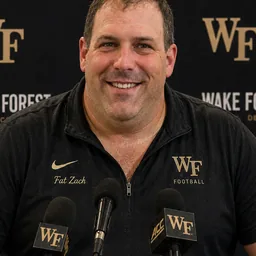
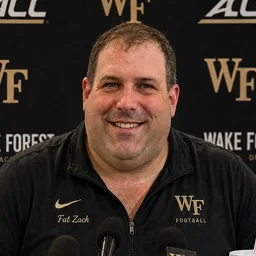
feat(art): fatter Fat Zach with podium snacks for CEC
Zach's CEC portrait is replaced with a heavier render of the same Wake
Forest press conference, snacks on the podium. All six derivatives are
rebuilt from the one promoted source: portrait, face crop, both avatars,
the profile hero and its torn edge, plus the heroes.json manifest.

The source was NOT regenerated from scratch. make_fatcoach.py only knew
how to BUILD a sideline scene from a real photo, and running that would
have thrown away the presser, the podium nameplate and the shirt script
that make the picture his. So it gains --keep-scene: an edit mode that
swaps SCENE for a pin -- backdrop, podium, mics, garment and every
existing letter frozen -- and moves only the build. Same inverted lock
the file already documents, one degree tighter than recolor_personas.py,
which freezes the body and changes the garment.

Three prompt failures closed on the way, each one the model taking
"heavier" as licence to change something else:

  - snack packaging came back with garbled invented branding, so
    --props forbids printing of any kind rather than policing spelling
  - "strains at the zip" was read as a shirt riding up over a bare
    midriff, and a heavier man came back older and bearded in 2/4
    renders; both are now denied in the build clause itself
  - the nameplate kept being eaten, because "on the podium" and "do not
    cover the nameplate" are the same depth. Stating the depth --
    nameplate in front, snacks behind and croppable -- makes both
    satisfiable
[…]

diff --git a/scripts/make_fatcoach.py b/scripts/make_fatcoach.py
@@ -75,8 +75,9 @@ IDENTITY_LOCK = (
     "hair, same skin tone, same complexion, same age. He must be instantly "
     "recognizable to anyone who knows him. DO NOT swap his face, DO NOT "
     "morph him toward any real coach or celebrity, DO NOT make him "
-    "generically handsome, DO NOT change his beard, DO NOT give him hair he "
-    "does not have."
+    "generically handsome, DO NOT change his beard, DO NOT add facial hair "
+    "he does not have, DO NOT grow stubble into a full beard, DO NOT grey his "
+    "hair or beard, DO NOT give him hair he does not have."
 )
 
 BUILD_CHANGE = (
@@ -86,7 +87,12 @@ BUILD_CHANGE = (
     "jowls, with the coaching shirt pulled tight over the stomach. Make the "
     "body substantially heavier than the source photograph. Keep the face "
     "recognizably his, but let the neck and jaw carry the weight the rest of "
-    "him does, so the head belongs to the body and does not look pasted on."
+    "him does, so the head belongs to the body and does not look pasted on. "
+    "The shirt stays fully on and fully covering him: it never rides up or "
+    "comes untucked, and NO bare skin of his stomach, midriff, chest or back "
+    "is visible anywhere. Making him heavier is the ONLY change -- do not age "
+    "him, do not grey him, and do not add, lengthen or thicken his facial "
+    "hair, which stays exactly as it is in the reference image."
 )
 
 NO_FURNITURE = (
@@ -123,7 +129,81 @@ EXCLUSION = (
 )
 
 
-def build_prompt(color_word, hexc, patch, exclude=None, team_marks=False):
+# --- scene-preserving edit mode (--keep-scene) --------------------------------
+# The generation path above BUILDS a sideline scene from a real photo. Once a
+# manager's portrait is approved and published, the scene is the asset: CEC's
+# zach is a Wake Forest presser, not a sideline, and regenerating it from
+# SCENE would throw away the backdrop, the podium nameplate and the shirt
+# script that make it his. So --keep-scene swaps SCENE for a pin -- everything
+# in the reference frame is frozen and only the build moves. Same inverted
+# lock, one degree tighter: recolor_personas.py freezes the body and changes
+# the garment, this freezes the garment AND the room and changes the body.
+SCENE_KEEP = (
+    "This is a TARGETED EDIT of the photograph provided, not a new picture. "
+    "Return the same photograph with one thing changed. ABSOLUTELY UNCHANGED: "
+    "the setting and the room, the backdrop and every logo, wordmark and "
+    "graphic printed on it, the podium and its nameplate, the microphones, "
+    "the camera angle, the crop and framing, the lighting direction and mood, "
+    "his garment and its exact color, and EVERY piece of text and lettering "
+    "already in the frame -- reproduce all existing words exactly as they "
+    "appear, same wording, same spelling, same fonts, same positions. It stays "
+    "a photorealistic press photograph with real skin and fabric texture. "
+    "DO NOT restyle or redraw the picture, DO NOT change the background, "
+    "DO NOT re-letter or reword the nameplate, DO NOT add or remove signage."
+)
+
+# Distinct from BUILD_CHANGE because the input is different. BUILD_CHANGE
+# reads a real photo of a normal-sized man; this reads a portrait that is
+# ALREADY the heavy-set treatment, so "make him heavy-set" is a no-op the
+# model happily satisfies by returning the source. The comparative -- heavier
+# THAN HE ALREADY IS IN THIS IMAGE -- is what actually moves it.
+BUILD_HEAVIER = (
+    " DELIBERATELY CHANGED, and this is the only reason for the edit: his "
+    "BODY. Make him CLEARLY AND SUBSTANTIALLY HEAVIER THAN HE ALREADY IS IN "
+    "THIS PHOTOGRAPH -- considerably more weight in the belly, chest, "
+    "shoulders, neck and jowls, a fuller double chin, rounder and heavier "
+    "cheeks, thicker arms and forearms, and a wider overall frame that fills "
+    "more of the podium than it does now. The coaching shirt is pulled "
+    "visibly tighter across the stomach and strains at the zip. Keep the face "
+    "recognizably his and let the neck and jaw carry the weight the rest of "
+    "him does, so the head belongs to the body and does not look pasted on."
+)
+
+# Props on the podium. Unbranded is not fussiness: every garbled render in the
+# hauck batch failed on LETTERING, and snack packaging is nothing but
+# lettering. Denying it the surface is cheaper than policing the spelling.
+PODIUM_PROPS = (
+    " ADD to the flat top of the podium, spread along its front edge to the "
+    "LEFT and RIGHT of the nameplate and BELOW the microphones: {props}. They "
+    "rest on the podium surface as real objects, shot in the same light and "
+    "the same photographic style as the rest of the frame, slightly "
+    "overlapping each other. They are props at the edges of the frame, not "
+    "the subject of it. EVERY microphone already in the picture stays exactly "
+    "where it is and stays fully visible, and the podium nameplate stays "
+    "COMPLETELY unobstructed and fully readable end to end, both of its "
+    "lines of text -- nothing may overlap, cover or crop a single letter of "
+    "it. The snacks sit on the podium's flat top surface BEHIND the "
+    "nameplate, so the nameplate stands in front of them and may itself hide "
+    "the lower part of any of them; that is correct and expected. It is "
+    "always the nameplate in front and the snacks behind, never the reverse. "
+    "Nothing may cover his "
+    "face, his chest or his hands. Every wrapper, bag, cup, box and napkin is "
+    "BLANK: plain solid-colored packaging with NO printing whatsoever -- no "
+    "lettering, no words, no numbers, no logos, no brand names, no invented "
+    "or garbled text, no decorative graphics anywhere on any of it."
+)
+
+
+def build_prompt(color_word, hexc, patch, exclude=None, team_marks=False,
+                 keep_scene=False, props=None):
+    if keep_scene:
+        text = SCENE_KEEP + IDENTITY_LOCK + BUILD_HEAVIER
+        if props:
+            text += PODIUM_PROPS.format(props=props)
+        if exclude:
+            text += EXCLUSION.format(names=exclude)
+        return text
+
     text = SCENE.format(color=color_word) + f" The team color is {hexc}."
     text += IDENTITY_LOCK + BUILD_CHANGE
     if patch:
@@ -163,8 +243,24 @@ def main():
     ap.add_argument("--exclude", default=None,
                     help="comma-joined things that must NOT appear, e.g. "
                          '"JMU, James Madison, purple". Opt-in; see EXCLUSION')
+    ap.add_argument("--keep-scene", action="store_true",
+                    help="treat --source as an ALREADY-APPROVED portrait and "
+                         "edit it in place: freeze the scene, backdrop, "
+                         "garment and lettering, change only the build. "
+                         "Makes --team/--hex optional and defaults --aspect "
+                         "to the source's own ratio so the framing survives.")
+    ap.add_argument("--props", default=None,
+                    help='things to add to the podium top, e.g. "an open bag '
+                         'of chips and a stack of candy bars". Unbranded by '
+                         "construction; see PODIUM_PROPS.")
+    ap.add_argument("--label", default="fat",
+                    help="filename stem: <group>_<manager>_<label>_<nn>.png. "
+                         "Change it so a new batch cannot overwrite the "
+                         "published one. Default 'fat'.")
     ap.add_argument("--n", type=int, default=2, help="variants")
-    ap.add_argument("--aspect", default=DEFAULT_ASPECT)
+    ap.add_argument("--aspect", default=None,
+                    help=f"default {DEFAULT_ASPECT}, or the source's own "
+                         "ratio under --keep-scene")
     ap.add_argument("--model", default=gemini_image.DEFAULT_MODEL)
     ap.add_argument("--out", default=None)
     ap.add_argument("--force", action="store_true")
@@ -179,7 +275,10 @@ def main():
     if not src.is_file():
         raise SystemExit(f"ERROR: source photo not found: {src}")
 
-    if a.hex:
+    if a.keep_scene and not (a.hex or a.team):
+        # The reference image already carries the palette; SCENE_KEEP pins it.
+        hexc = word = None
+    elif a.hex:
         hexc, word = a.hex.lower(), color_name(a.hex)
     elif a.team:
         colors = team_colors()
@@ -190,15 +289,22 @@ def main():
     else:
         ap.error("one of --team or --hex is required")
 
-    prompt = build_prompt(word, hexc, a.patch, a.exclude, a.team_marks)
+    prompt = build_prompt(word, hexc, a.patch, a.exclude, a.team_marks,
+                          keep_scene=a.keep_scene, props=a.props)
     out_dir = Path(a.out) if a.out else ROOT / "output" / "personas" / a.group
     if not out_dir.is_absolute():
         out_dir = ROOT / out_dir
 
-    print(f"group={a.group} manager={a.manager} color={word} ({hexc}) "
-          f"aspect={a.aspect}")
     with Image.open(src) as im:
-        print(f"source {src.name} {im.size[0]}x{im.size[1]}")
+        size = im.size
+    # An edit told the wrong ratio re-frames the composition it was supposed
+    # to preserve, so --keep-scene reads the ratio off the source itself.
+    aspect = a.aspect or (gemini_image.nearest_aspect(*size) if a.keep_scene
+                          else DEFAULT_ASPECT)
+    swatch = f"{word} ({hexc})" if word else "from reference"
+    print(f"group={a.group} manager={a.manager} color={swatch} "
+          f"aspect={aspect} mode={'edit' if a.keep_scene else 'generate'}")
+    print(f"source {src.name} {size[0]}x{size[1]}")
     print(f"\n--- prompt ---\n{prompt}\n")
     if a.preview:
         print("preview only; nothing written, nothing billed.")
@@ -215,13 +321,13 @@ def main():
     budget = load_budget()
     made = skipped = 0
     for i in range(1, a.n + 1):
-        dest = out_dir / f"{a.group}_{a.manager}_fat_{i:02d}.png"
+        dest = out_dir / f"{a.group}_{a.manager}_{a.label}_{i:02d}.png"
         if dest.exists() and not a.force:
             print(f"  skip (exists): {dest.name}")
             skipped += 1
             continue
         print(f"  variant {i} ...")
-        img = gemini_image.generate(key, a.model, ref, prompt, a.aspect,
+        img = gemini_image.generate(key, a.model, ref, prompt, aspect,
                                     budget=budget, daily_warn=a.daily_warn)
         dest.write_bytes(img)
         print(f"  wrote {dest.name} ({len(img) // 1024} KB)")
